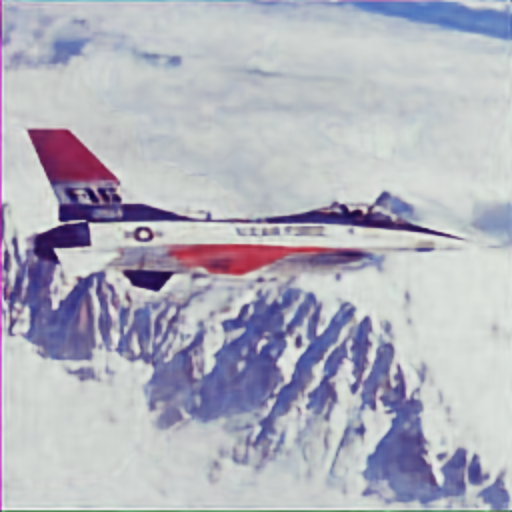
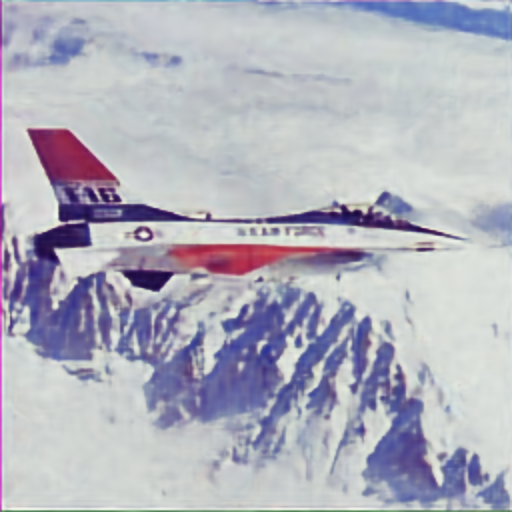
denoise

diff --git a/main.py b/main.py
@@ -9,98 +9,12 @@ import matplotlib.pyplot as plt
 import skimage.transform as transform
 import os
 os.environ['KMP_DUPLICATE_LIB_OK']='True'
+from model import Model
 
-
-class D(nn.Module):
-    """
-    Downsample
-    """
-    def __init__(self, in_channels, out_channels, kernel_size):
-        super(D, self).__init__()
-
-        self.model = nn.Sequential(
-            nn.Conv2d(in_channels, out_channels, kernel_size, stride=2, padding=1, bias=True),  # Downsample
-            nn.BatchNorm2d(out_channels), nn.LeakyReLU(0.2, inplace=True),
-            nn.Conv2d(out_channels, out_channels, kernel_size, stride=1, padding=1, bias=True),
-            nn.BatchNorm2d(out_channels), nn.LeakyReLU(0.2, inplace=True))
-
-    def forward(self, x):
-        return self.model(x)
-
-
-class S(nn.Module):
-
-    def __init__(self, in_channels, out_channels, kernel_size):
-        super(S, self).__init__()
-
-        self.model = nn.Sequential(
-            nn.Conv2d(in_channels, out_channels, kernel_size, 1, padding=0, bias=True),
-            nn.BatchNorm2d(out_channels), nn.LeakyReLU(0.2, inplace=True))
-
-    def forward(self, x):
-        return self.model(x)
-
-
-class U(nn.Module):
-    """
-    Upsample
-    """
-
-    def __init__(self, in_channels, out_channels, kernel_size):
-        super(U, self).__init__()
-
-        self.model = nn.Sequential(nn.BatchNorm2d(in_channels),
-                                   nn.Conv2d(in_channels, out_channels, kernel_size, 1, padding=1,
-                                             bias=True),
-                                   nn.BatchNorm2d(out_channels), nn.LeakyReLU(0.2, inplace=True),
-                                   nn.Conv2d(out_channels, out_channels, 1, 1, padding=0, bias=True),
-                                   nn.BatchNorm2d(out_channels), nn.LeakyReLU(0.2, inplace=True),
-                                   nn.Upsample(scale_factor=2, mode='bilinear'))
-
-    def forward(self, x):
-        return self.model(x)
-
-
-class Model(nn.Module):
-
-    def __init__(self):
-        super(Model, self).__init__()
-
-        self.d1 = D(3, 8, 3)
-        self.d2 = D(8, 16, 3)
-        self.d3 = D(16, 32, 3)
-        self.d4 = D(32, 64, 3)
-        self.d5 = D(64, 128, 3)
-
-        self.u1 = U(16, 8, 3)
-        self.u2 = U(32, 16, 3)
-        self.u3 = U(64, 32, 3)
-        self.u4 = U(128 + 4, 64, 3)
-        self.u5 = U(128 + 4, 128, 3)
-
-        self.s4 = S(32, 4, 1)
-        self.s5 = S(64, 4, 1)
-
-        self.conv_out = nn.Conv2d(8, 3, 1, stride=1, padding=0, bias=True)
-
-    def forward(self, x):
-        h = self.d1(x)
-        h = self.d2(h)
-        h = self.d3(h)
-        skip3 = self.s4(h)
-        h = self.d4(h)
-        skip4 = self.s5(h)
-        h = self.d5(h)
-        h = self.u5(torch.cat((skip4[:, :, 8:-8, 8:-8], h), dim=1))
-        h = self.u4(torch.cat((skip3[:, :, 16:-16, 16:-16], h), dim=1))
-        h = self.u3(h)
-        h = self.u2(h)
-        h = self.u1(h)
-
-        return torch.sigmoid(self.conv_out(h))
 
 
 if __name__ == "__main__":
+    device='cuda'
     parser = argparse.ArgumentParser(description='parameters')
     parser.add_argument('--task', type=str, default='denoise')
     parser.add_argument('--name', type=str, default='f16')
@@ -108,17 +22,22 @@ if __name__ == "__main__":
     parser.add_argument('--mask_address', type=str, default='./data/inpainting/kate_mask.png')
     parser.add_argument('--epoch',type=int,default='2400')
     args = parser.parse_args()
-    model = Model()
-    optimizer = optim.Adam(model.parameters(), lr=0.01)
     image = Image.open(args.address)
     w, h = image.size
-    image = image.resize((512, 512), resample=Image.LANCZOS)
+    image = image.resize((w - w % 32, h - h % 32), resample=Image.LANCZOS)
+    # image = image.resize((512, 512), resample=Image.LANCZOS)
     image = torch.from_numpy(np.array(image) / 255.0).unsqueeze(0).float()
     if args.task == 'denoise':
+        # print(image.shape)
+        model = Model(image.shape[1], image.shape[2],input_channel=32).to(device)
+        optimizer = optim.Adam(model.parameters(), lr=0.025)
         loss_fn = torch.nn.MSELoss()
         corrupted_img = (image + torch.randn_like(image) * .1).clip(0, 1)
         corrupted_img = corrupted_img.transpose(2, 3).transpose(1, 2)
-        z = torch.randn(corrupted_img.shape) * .1
+        z = torch.randn([1, 32, corrupted_img.shape[-2], corrupted_img.shape[-1]]) * .1
+        z = z.to(device)
+        
+        corrupted_img = corrupted_img.to(device)
     elif args.task == 'inpaint':
         loss_fn = torch.nn.MSELoss()
         mask = Image.open(args.mask_address)
@@ -144,32 +63,36 @@ if __name__ == "__main__":
 
     plt.figure(figsize=(18, 3.5))
     plt.subplot(1, 3, 1)
-    corr_img=transform.resize(corrupted_img[0].transpose(0, 1).transpose(1, 2).data.numpy(), 
-                              (h, w), 
-                              order=3, 
-                              mode='constant', 
-                              preserve_range=True, 
-                              anti_aliasing=True)
-    plt.imshow(corr_img)
-    plt.imsave(f'./Imgs/{args.name}_input{str(args.epoch)}.png', corr_img)
+    corr_img=corrupted_img[0].cpu().transpose(0, 1).transpose(1, 2).data.numpy(), 
+    # corr_img=transform.resize(corrupted_img[0].transpose(0, 1).transpose(1, 2).data.numpy(), 
+    #                           (h, w), 
+    #                           order=3, 
+    #                           mode='constant', 
+    #                           preserve_range=True, 
+    #                           anti_aliasing=True)
+    plt.imshow(corr_img[0])
+    # print(corr_img[0].shape)
+    plt.imsave(f'./Imgs/{args.name}_input{str(args.epoch)}.png', corr_img[0])
     plt.title('Input', fontsize=15)
     plt.subplot(1, 3, 2)
-    pred=transform.resize(img_pred[0].transpose(0, 1).transpose(1, 2).data.numpy(), 
-                            (h, w), 
-                            order=3, 
-                            mode='constant', 
-                            preserve_range=True, 
-                            anti_aliasing=True)
-    plt.imshow(pred)
-    plt.imsave(f'./Imgs/{args.name}_{args.task}{str(args.epoch)}.png', pred)
+    pred=img_pred[0].cpu().transpose(0, 1).transpose(1, 2).data.numpy(), 
+    # pred=transform.resize(img_pred[0].transpose(0, 1).transpose(1, 2).data.numpy(), 
+    #                         (h, w), 
+    #                         order=3, 
+    #                         mode='constant', 
+    #                         preserve_range=True, 
+    #                         anti_aliasing=True)
+    plt.imshow(pred[0])
+    plt.imsave(f'./Imgs/{args.name}_{args.task}{str(args.epoch)}.png', pred[0])
     plt.title('Prediction', fontsize=15)
     plt.subplot(1, 3, 3)
-    origin=transform.resize(image[0].data.numpy(),
-                            (h, w), 
-                            order=3, 
-                            mode='constant', 
-                            preserve_range=True, 
-                            anti_aliasing=True)
+    origin = image[0].data.numpy()
+    # origin=transform.resize(image[0].data.numpy(),
+    #                         (h, w), 
+    #                         order=3, 
+    #                         mode='constant', 
+    #                         preserve_range=True, 
+    #                         anti_aliasing=True)
     plt.imshow(origin)
     plt.imsave(f'./Imgs/{args.name}_gt.png', origin)
     plt.title('Ground truth', fontsize=15)

diff --git a/model.py b/model.py
@@ -1,0 +1,104 @@
+import torch
+import torch.nn as nn
+
+
+
+
+class D(nn.Module):
+    """
+    Downsample
+    """
+    def __init__(self, in_channels, out_channels, kernel_size):
+        super(D, self).__init__()
+
+        self.model = nn.Sequential(
+            nn.Conv2d(in_channels, out_channels, kernel_size, stride=2, padding=1, bias=True),  # Downsample
+            nn.BatchNorm2d(out_channels), nn.LeakyReLU(0.2, inplace=True),
+            nn.Conv2d(out_channels, out_channels, kernel_size, stride=1, padding=1, bias=True),
+            nn.BatchNorm2d(out_channels), nn.LeakyReLU(0.2, inplace=True))
+
+    def forward(self, x):
+        return self.model(x)
+
+
+class S(nn.Module):
+
+    def __init__(self, in_channels, out_channels, kernel_size):
+        super(S, self).__init__()
+
+        self.model = nn.Sequential(
+            nn.Conv2d(in_channels, out_channels, kernel_size, 1, padding=0, bias=True),
+            nn.BatchNorm2d(out_channels), nn.LeakyReLU(0.2, inplace=True))
+
+    def forward(self, x):
+        return self.model(x)
+
+
+class U(nn.Module):
+    """
+    Upsample
+    """
+
+    def __init__(self, in_channels, out_channels, kernel_size, mode='bilinear'):
+        super(U, self).__init__()
+
+        self.model = nn.Sequential(nn.BatchNorm2d(in_channels),
+                                   nn.Conv2d(in_channels, out_channels, kernel_size, 1, padding=1,
+                                             bias=True),
+                                   nn.BatchNorm2d(out_channels), nn.LeakyReLU(0.2, inplace=True),
+                                   nn.Conv2d(out_channels, out_channels, 1, 1, padding=0, bias=True),
+                                   nn.BatchNorm2d(out_channels), nn.LeakyReLU(0.2, inplace=True),
+                                   nn.Upsample(scale_factor=2, mode=mode))
+
+    def forward(self, x):
+        return self.model(x)
+
+
+class Model(nn.Module):
+
+    def __init__(self, w, h, input_channel=3, mode='bilinear'):
+        super(Model, self).__init__()
+        self.w,self.h = int(w/64), int(h/64)
+        # print(w,self.w)
+        self.d1 = D(input_channel, 8, 3)
+        self.d2 = D(8, 16, 3)
+        self.d3 = D(16, 32, 3)
+        self.d4 = D(32, 64, 3)
+        self.d5 = D(64, 128, 3)
+        # self.d6 = D(128, 256, 3)
+
+        self.u1 = U(16, 8, 3, mode=mode)
+        self.u2 = U(32, 16, 3, mode=mode)
+        self.u3 = U(64, 32, 3, mode=mode)
+        self.u4 = U(128 + 4, 64, 3, mode=mode)
+        self.u5 = U(128 + 4, 128, 3, mode=mode)
+        # self.u6 = U(128 + 4, 256, 3, mode=mode)
+
+        self.s4 = S(32, 4, 1)
+        self.s5 = S(64, 4, 1)
+        # self.s6 = S(128, 4, 1)
+
+        self.conv_out = nn.Conv2d(8, 3, 1, stride=1, padding=0, bias=True)
+
+    def forward(self, x):
+        h = self.d1(x)
+        h = self.d2(h)
+        h = self.d3(h)
+        skip3 = self.s4(h)
+        h = self.d4(h)
+        skip4 = self.s5(h)
+        h = self.d5(h)
+        # h = self.u5(torch.cat((skip4[:, :, 8:-8, 8:-8], h), dim=1))
+        # h = self.u4(torch.cat((skip3[:, :, 16:-16, 16:-16], h), dim=1))
+        # skip5 = self.s6(h)
+        # h = self.d6(h)
+        
+        # h = self.u6(torch.cat((skip5[:,:,int(self.w/2):-int(self.w/2),int(self.h/2):-int(self.h/2)],h),dim=1))
+        # h = self.u6(torch.cat((skip5[:,:,self.w:-self.w,self.h:-self.h],h),dim=1))
+        h = self.u5(torch.cat((skip4[:,:,self.w:-self.w,self.h:-self.h],h),dim=1))
+        h = self.u4(torch.cat((skip3[:,:,2*self.w:-2*self.w,2*self.h:-2*self.h],h),dim=1))
+        h = self.u3(h)
+        h = self.u2(h)
+        h = self.u1(h)
+
+        return torch.sigmoid(self.conv_out(h))
